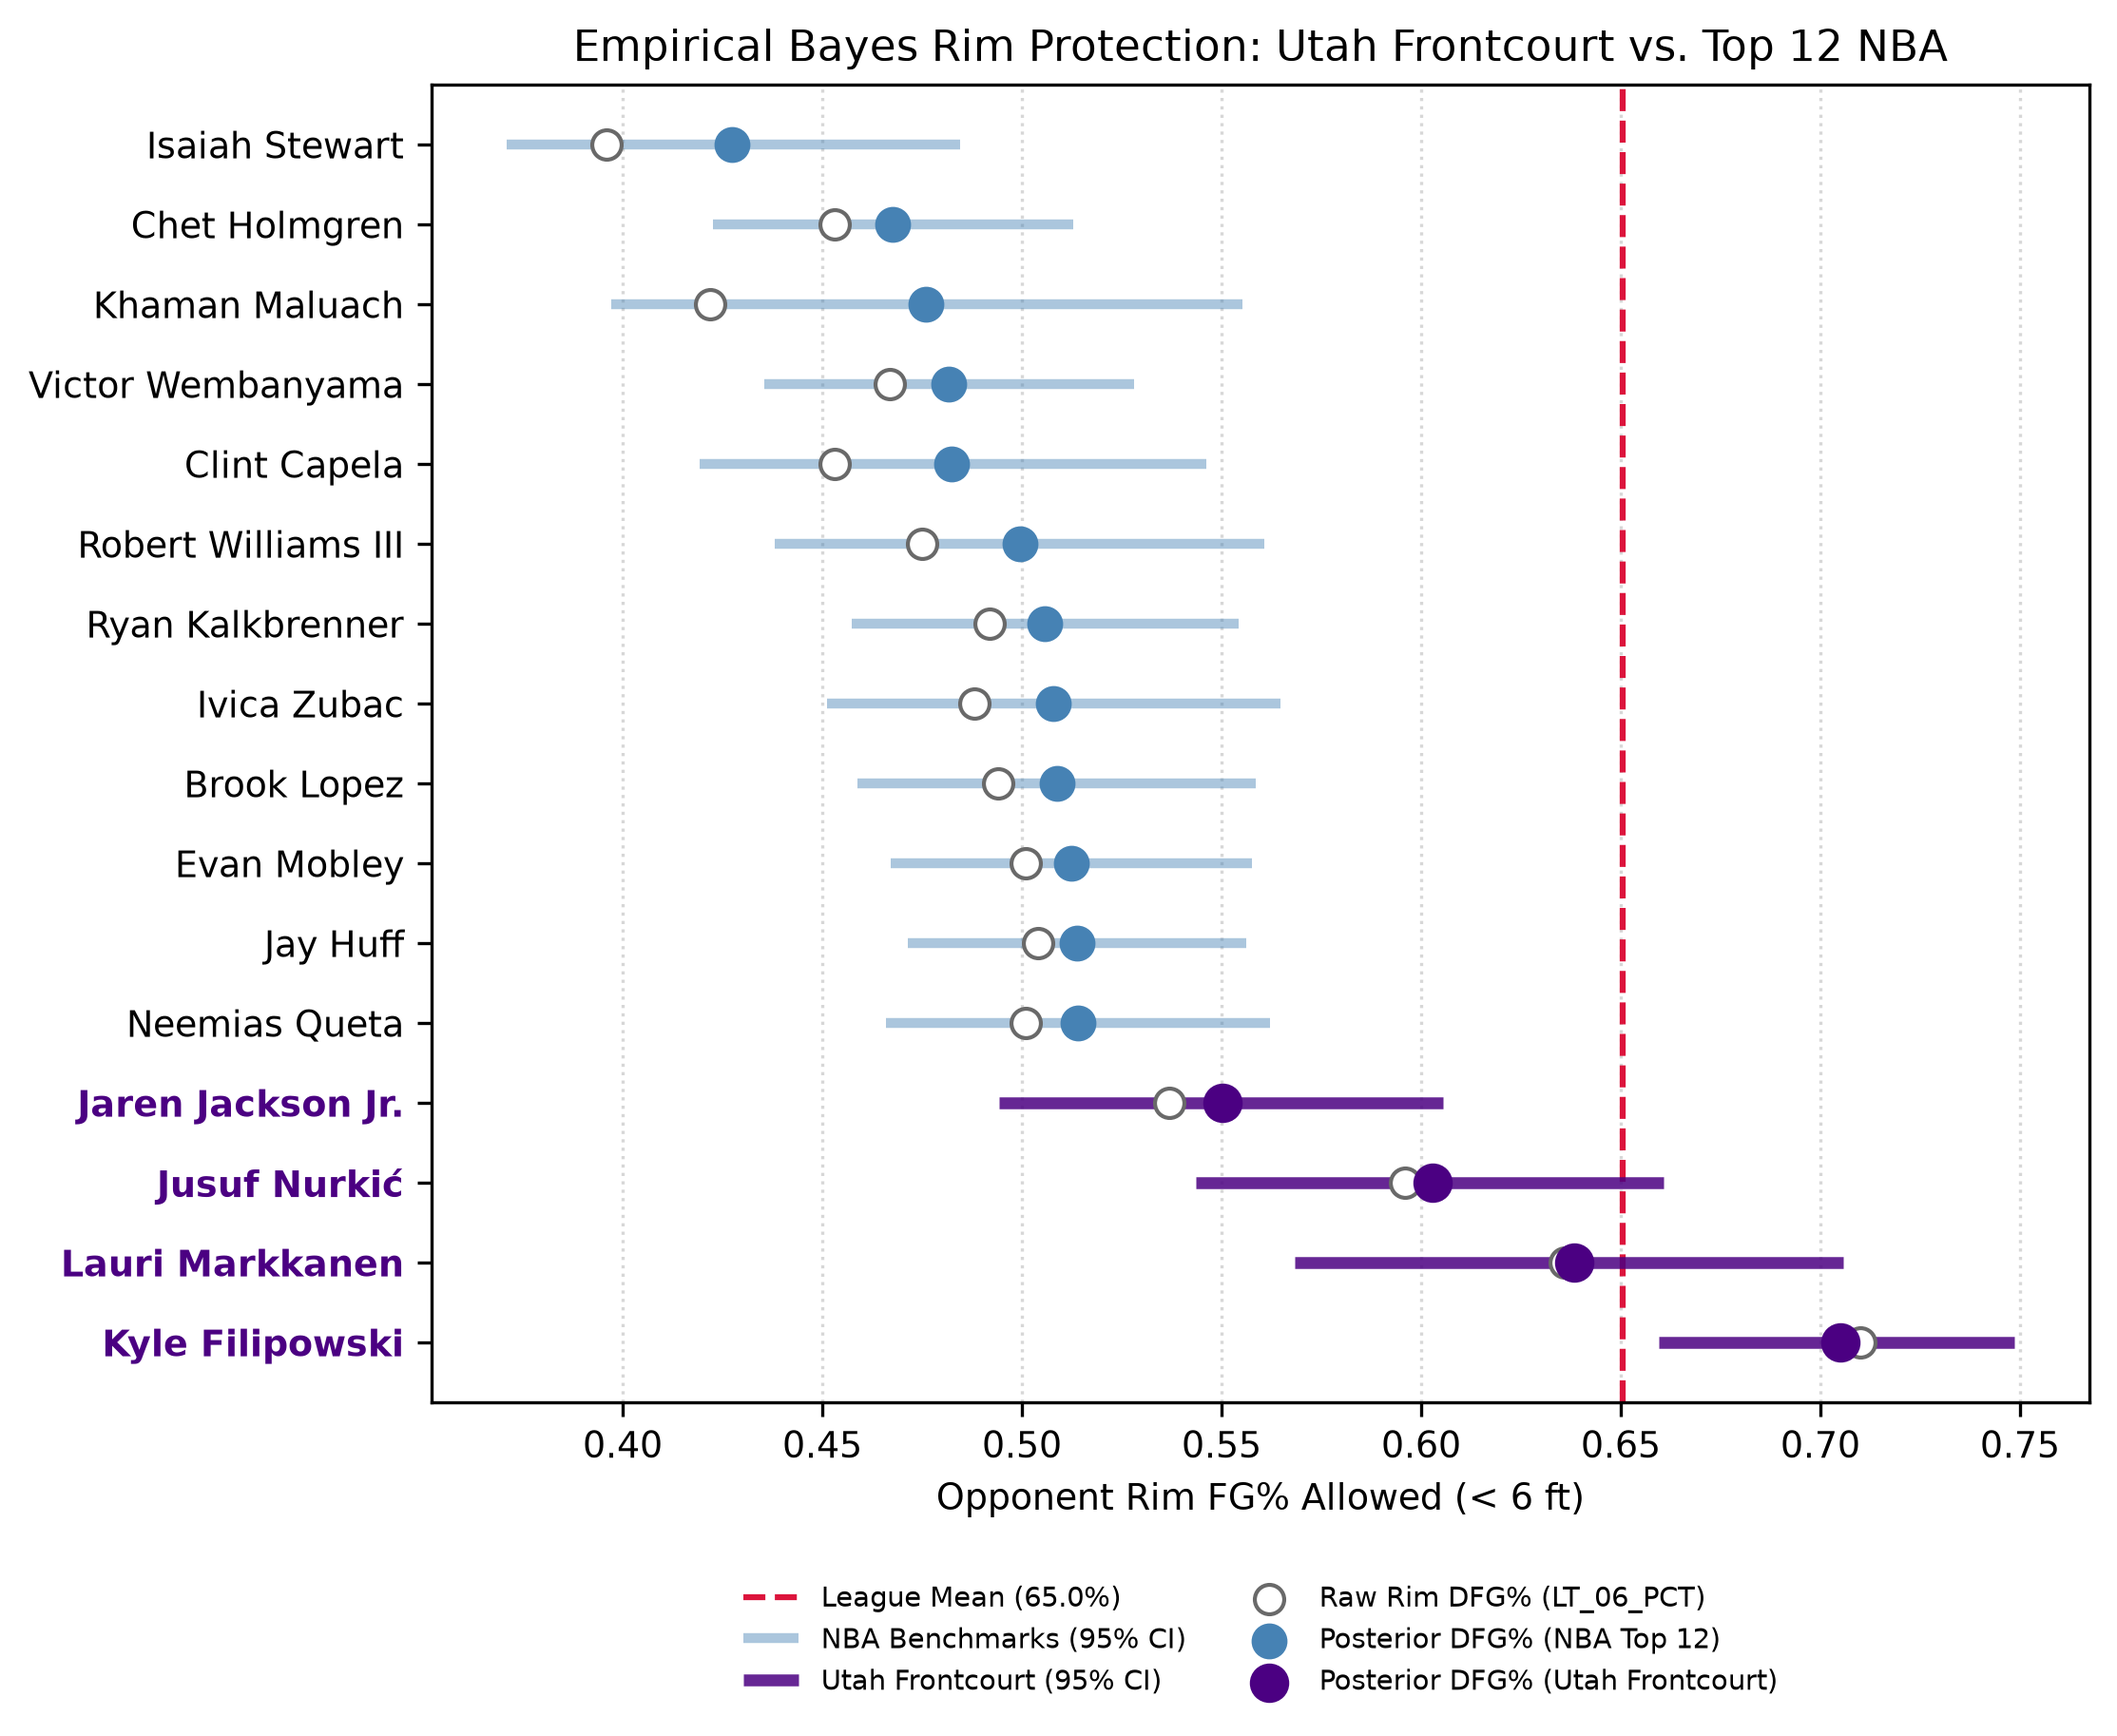
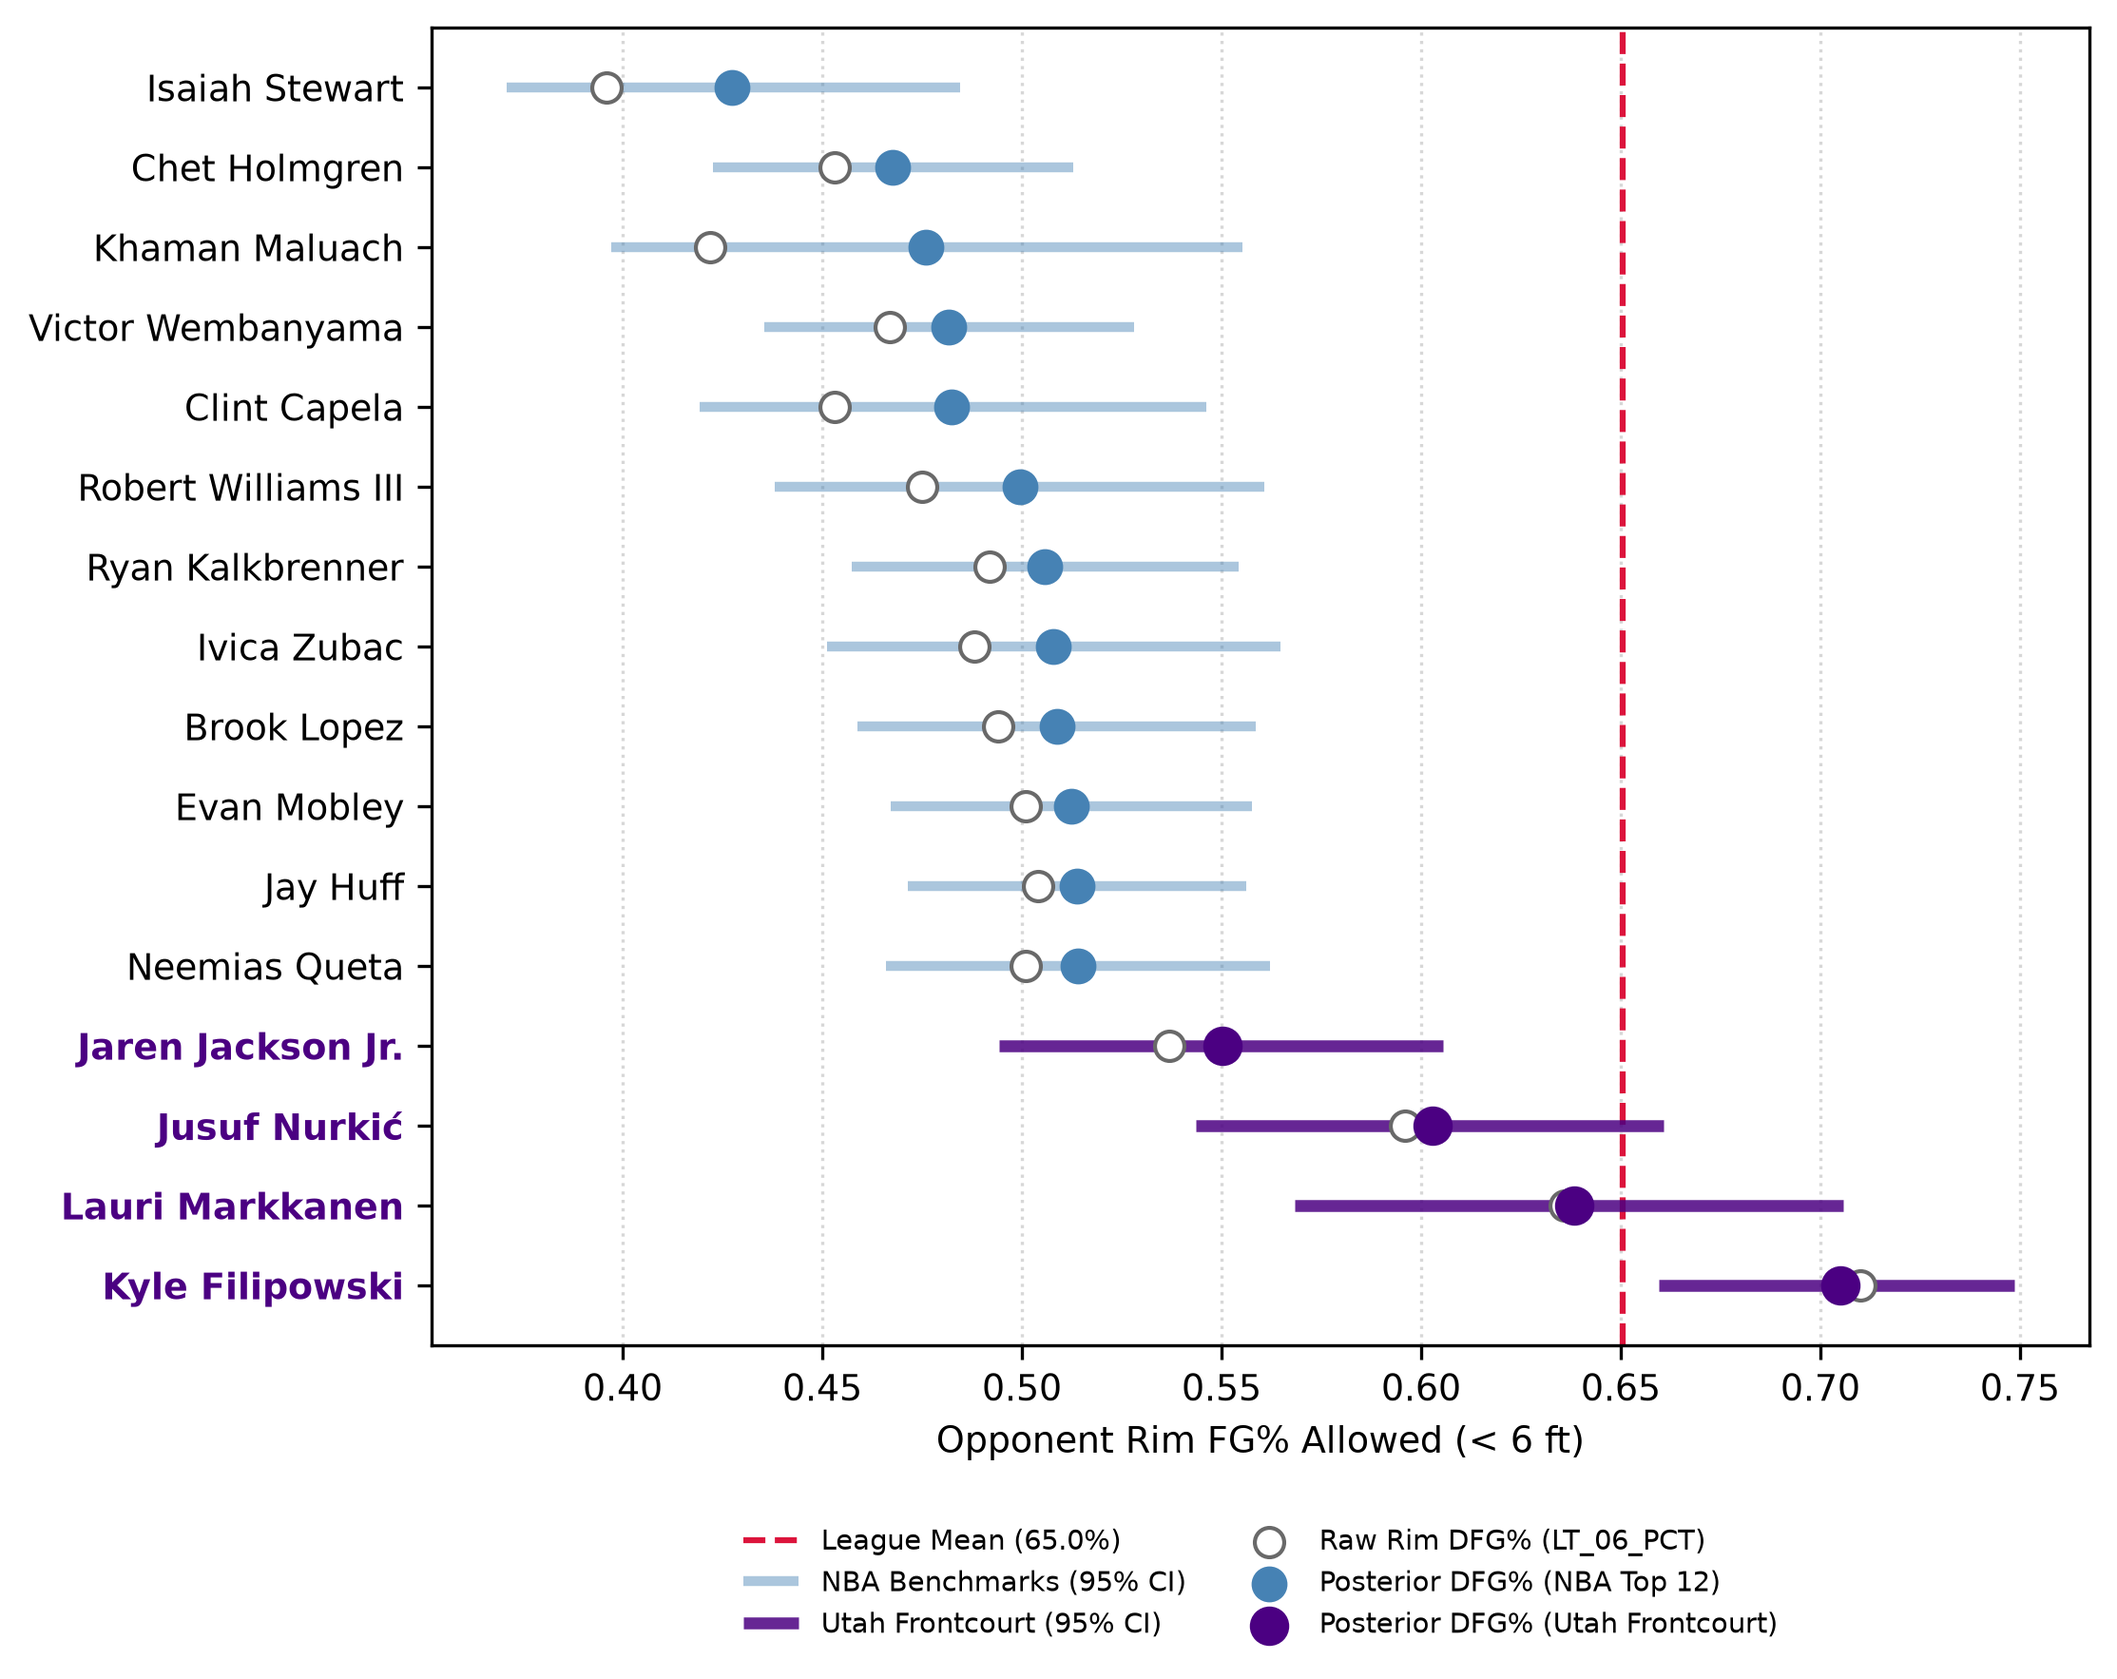
Publish Report

Changed region(s): [[0.0, 0.0, 0.9915, 0.872], [0.5887, 0.9032, 0.8056, 0.9655], [0.3408, 0.9032, 0.5577, 0.9966]]

diff --git a/model.py b/model.py
@@ -5,7 +5,7 @@ import matplotlib.patches as patches
 import scipy.stats as stats
 import pandas as pd
 from matplotlib.axes import Axes
-from matplotlib.colors import ListedColormap
+from matplotlib.colors import LinearSegmentedColormap
 from nba_api.stats.endpoints import leaguedashptdefend
 
 # ---------------------------------------
@@ -50,8 +50,8 @@ JAZZ_FRONTCOURT_IDS = [
 ]
 
 # Custom colormap for Jazz-themed visualizations
-jazz_colors = ['#31006F', '#00A9E0', "#062553"]
-jazz_cmap = ListedColormap(jazz_colors, name='utah_jazz')
+jazz_colors = ['#31006F', '#00A9E0', '#062553']
+jazz_cmap = LinearSegmentedColormap.from_list('utah_jazz', jazz_colors, N=256)
 
 # Note... as much as it pains me, I will be sticking to American register and units for this project, since the NBA is an American league and all the data is in imperial units
 
@@ -427,7 +427,6 @@ def plot_empirical_bayes_forest(
             tick_label.set_color("#4B0082") # Bold Utah player names on the y-axis
 
     ax.set_xlabel("Opponent Rim FG% Allowed (< 6 ft)")
-    ax.set_title("Empirical Bayes Rim Protection: Utah Frontcourt vs. Top 12 NBA")
     ax.grid(axis="x", linestyle=":", alpha=0.5)
     ax.legend(loc="lower right")
 
@@ -445,7 +444,7 @@ def plot_zone_roam_surface(
 
     draw_nba_halfcourt(ax=ax, color="black", lw=1.5, zorder=10) # Draw the NBA half-court on the axes
 
-    levels = np.linspace(7.5, 23.75, 14)
+    levels = np.linspace(7.5, 23.75, 200) # Define contour levels for the optimal roam depth surface
     cf = ax.contourf(
         x_coords,
         y_coords,
@@ -472,6 +471,7 @@ def plot_zone_roam_surface(
     ax.clabel(cs, inline=True, fontsize=9, fmt="%.0f ft")
 
     cbar = plt.colorbar(cf, ax=ax, fraction=0.046, pad=0.04)
+    cbar.set_ticks([8, 12, 16, 20, 23.75])
     cbar.set_label("Max Safe Roaming Depth d* (ft from Rim)", fontsize=10)
 
     ax.set_title(f"JJJ Spatial Roaming Tether Surface — {scheme_label}", fontsize=12, fontweight="bold")

diff --git a/README.md b/README.md
@@ -1,9 +1,9 @@
-# Utah Jazz Frontcourt Rim Protection andHelp-Rotation Tethers
+# Utah Jazz Frontcourt Rim Protection and Help-Rotation Tethers
 The Utah Jazz Rim Protection and Frontcourt Pairing Model
 
 An NBA defensive analytics framework combining Empirical Bayes modeling with a stochastic kinematic simulation to optimize weak-side help rotations across Utah Jazz frontcourt pairings. Built quickly and specifically to boost an application to the Basketball Analytics Intern position with the Utah Jazz.
 
-The compiled report can be found on my cloud [here]()
+The compiled report can be found on my cloud [here](https://cloud.kaiwave.dev/s/ZjH9qaZKYAPYGWz)
 
 ## Intro
 Open `main.ipynb` for the Executive Analytics Brief. It contains the Empirical Bayes rim baselines, roaming-depth heatmaps, and the frontcourt EV table. Rendered figures and the table are also saved in `assets/`.
